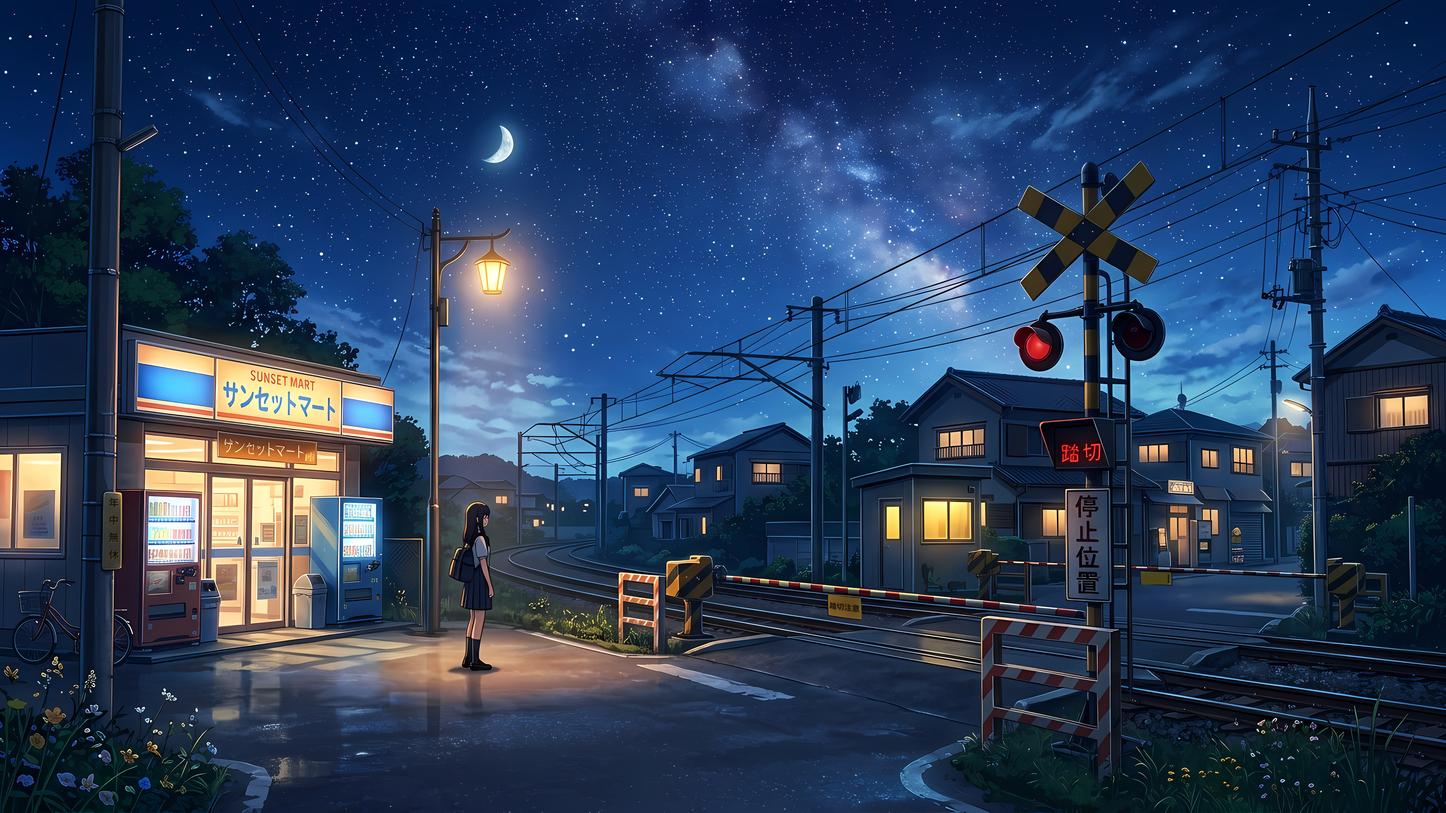
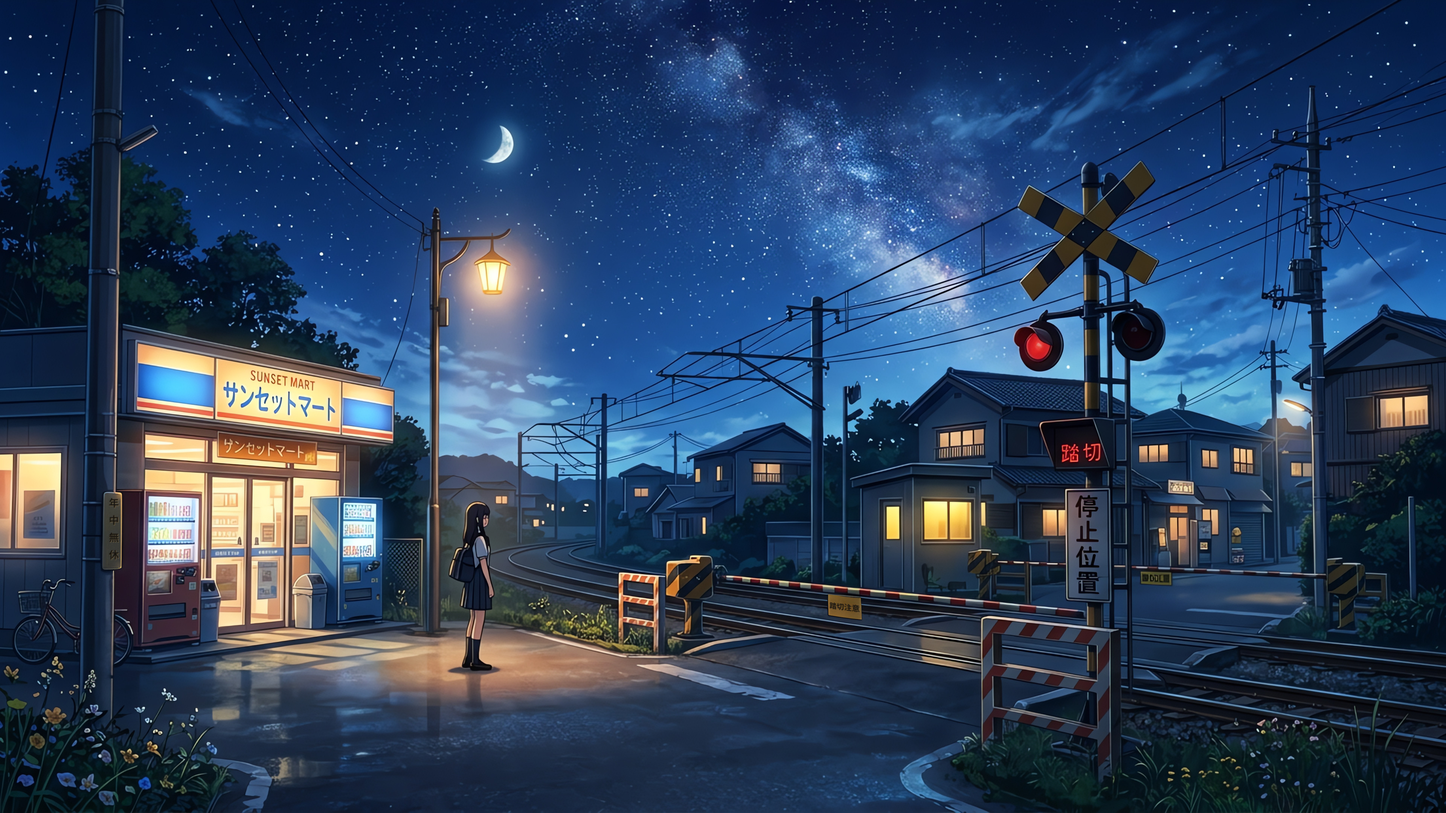
Add third wallpaper, re-upscale backgrounds, add away screen
- Re-upscale both wallpapers from the 1376x768 originals with
  realesr-animevideov3, which keeps the painted texture that
  realesrgan-x4plus-anime smoothed away; signage repaints carried over
- Add 03-quiet-street.jpg, a residential lane after rain
- Add screensaver.txt (Sunset Mart night scene) and an optional
  theme-set hook that swaps it in while Konbini is active

Claude-Session: https://claude.ai/code/session_015VyaNPytJaDsX84yfX4PpJ

diff --git a/README.md b/README.md
@@ -13,7 +13,7 @@ starfields.
 | --- | --- |
 | ![Theme picker](screenshots/theme-switcher.jpg)<br>Theme picker | ![Terminal](screenshots/terminal.jpg)<br>Terminal + gradient border |
 | ![Lock screen](screenshots/lockscreen.jpg)<br>Lock screen | ![Second wallpaper](screenshots/desktop-corner-store.jpg)<br>Second wallpaper |
-| ![Boot unlock screen](preview-unlock.png)<br>Boot / disk-unlock screen | |
+| ![Third wallpaper](screenshots/desktop-quiet-street.jpg)<br>Third wallpaper | ![Boot unlock screen](preview-unlock.png)<br>Boot / disk-unlock screen |
 
 ## Install
 
@@ -40,7 +40,7 @@ A manual clone still has its `.git` directory, so Omarchy treats it exactly
 like an installed theme: the same file filtering, and `omarchy theme update`
 keeps it up to date.
 
-**After installing**, cycle between the two wallpapers with:
+**After installing**, cycle between the three wallpapers with:
 
 ```bash
 omarchy theme bg next
@@ -66,10 +66,10 @@ Full values in [`colors.toml`](colors.toml).
 
 ## Backgrounds
 
-Two wallpapers included under `backgrounds/` at a true 3840×2160 (4K). Both
+Three wallpapers included under `backgrounds/` at a true 3840×2160 (4K). All
 were generated with Google's image generation AI at 1376×768, then upscaled
-with Real-ESRGAN (`realesrgan-x4plus-anime`) for clean line art at full
-resolution rather than a blurry stretch.
+with Real-ESRGAN (`realesr-animevideov3`), which keeps the painted texture of
+the wet streets, foliage and skies instead of smoothing it away.
 
 - `01-station-crossing.jpg` — a girl waiting at a rail crossing by a corner
   store. Shown first (Omarchy picks backgrounds alphabetically the first time
@@ -77,6 +77,8 @@ resolution rather than a blurry stretch.
   This is also the wallpaper behind the windows in `preview.png`.
 - `02-corner-store.jpg` — the same fictional Sunset Mart, on a street corner
   under a starry sky.
+- `03-quiet-street.jpg` — a sleeping residential lane after rain, one warm
+  window still lit.
 
 The signage was repainted by hand after generation: real-world brand logos
 were replaced with the fictional Sunset Mart, and garbled AI text on the
@@ -94,6 +96,24 @@ safely preview it without actually locking your session:
 omarchy shell lock preview      # show it
 omarchy shell lock hidePreview  # dismiss it
 ```
+
+## Away screen (optional)
+
+Konbini ships an idle screensaver, `screensaver.txt`: a little night-street
+scene with the Sunset Mart, a streetlamp and the moon, drawn in by Omarchy's
+random text effects in place of the stock logo. Omarchy keeps the screensaver
+in your personal branding rather than in the theme, so it takes one step:
+
+```bash
+# Just use it:
+cp ~/.config/omarchy/themes/konbini/screensaver.txt ~/.config/omarchy/branding/screensaver.txt
+
+# Or swap it in automatically whenever Konbini is the active theme
+# (your own screensaver comes back when you switch themes):
+omarchy hook install theme-set ~/.config/omarchy/themes/konbini/extras/screensaver-hook
+```
+
+Preview it with `omarchy launch screensaver force`; any key ends it.
 
 ## What's themed
 
